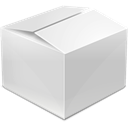
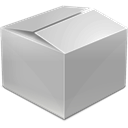
Added new packet color and packet images for IP and ETHERNET type.

diff --git a/src/resources/help/cz/topics/libraries_licences.html b/src/resources/help/cz/topics/libraries_licences.html
@@ -1,4 +1,4 @@
-<!DOCTYPE HTML PUBLIC "-//W3C//DTD HTML 4.01//EN" "http://www.w3.org/TR/html4/strict.dtd">
+<!DOCTYPE HTML PUBLIC "-//W3C//DTD HTML 4.01//EN" "http://www.w3.org/TR/html4/strict.dtd">
 <html>
   <head>
       <meta http-equiv="Content-Type" content="text/html; charset=UTF-8">
@@ -90,7 +90,7 @@
             </p>
             
             <h3>Ikona balíčku</h3>
-            <p><a href="http://www.iconfinder.com/icondetails/40764/128/delivery_truck_icon">Ikona balíčku</a> 
+            <p><a href="http://www.iconfinder.com/icondetails/38964/128/box_delivery_generic_inventory_package_product_icon">Ikona balíčku</a> 
                 z <a href="http://bluemalboro.deviantart.com/art/Micro-Icon-Set-42295693">BlueMalboro</a> 
                 pohláhá licenci: 
                 <a href="http://creativecommons.org/licenses/by-nc-nd/3.0/">Creative Commons (Attribution-Noncommercial-No Derivative Works 3.0 Unported)</a>.

diff --git a/src/psimulator/dataLayer/Singletons/ImageFactory/ImageFactorySingleton.java b/src/psimulator/dataLayer/Singletons/ImageFactory/ImageFactorySingleton.java
@@ -536,6 +536,10 @@ public class ImageFactorySingleton {
             case UDP:
                 suffix = "blue.png";
                 break;
+            case IP:
+            case ETHERNET:
+                suffix = "black.png";
+                break;
             case GENERIC:
             default:
                 suffix = "pink.png";

diff --git a/src/psimulator/dataLayer/ColorMixerSingleton.java b/src/psimulator/dataLayer/ColorMixerSingleton.java
@@ -44,6 +44,9 @@ public class ColorMixerSingleton {
                 return Color.GRAY;
             case ARP:
                 return Color.YELLOW;
+            case IP:
+            case ETHERNET:
+                return Color.BLACK;
             case GENERIC:
             default:
                 return Color.PINK;
